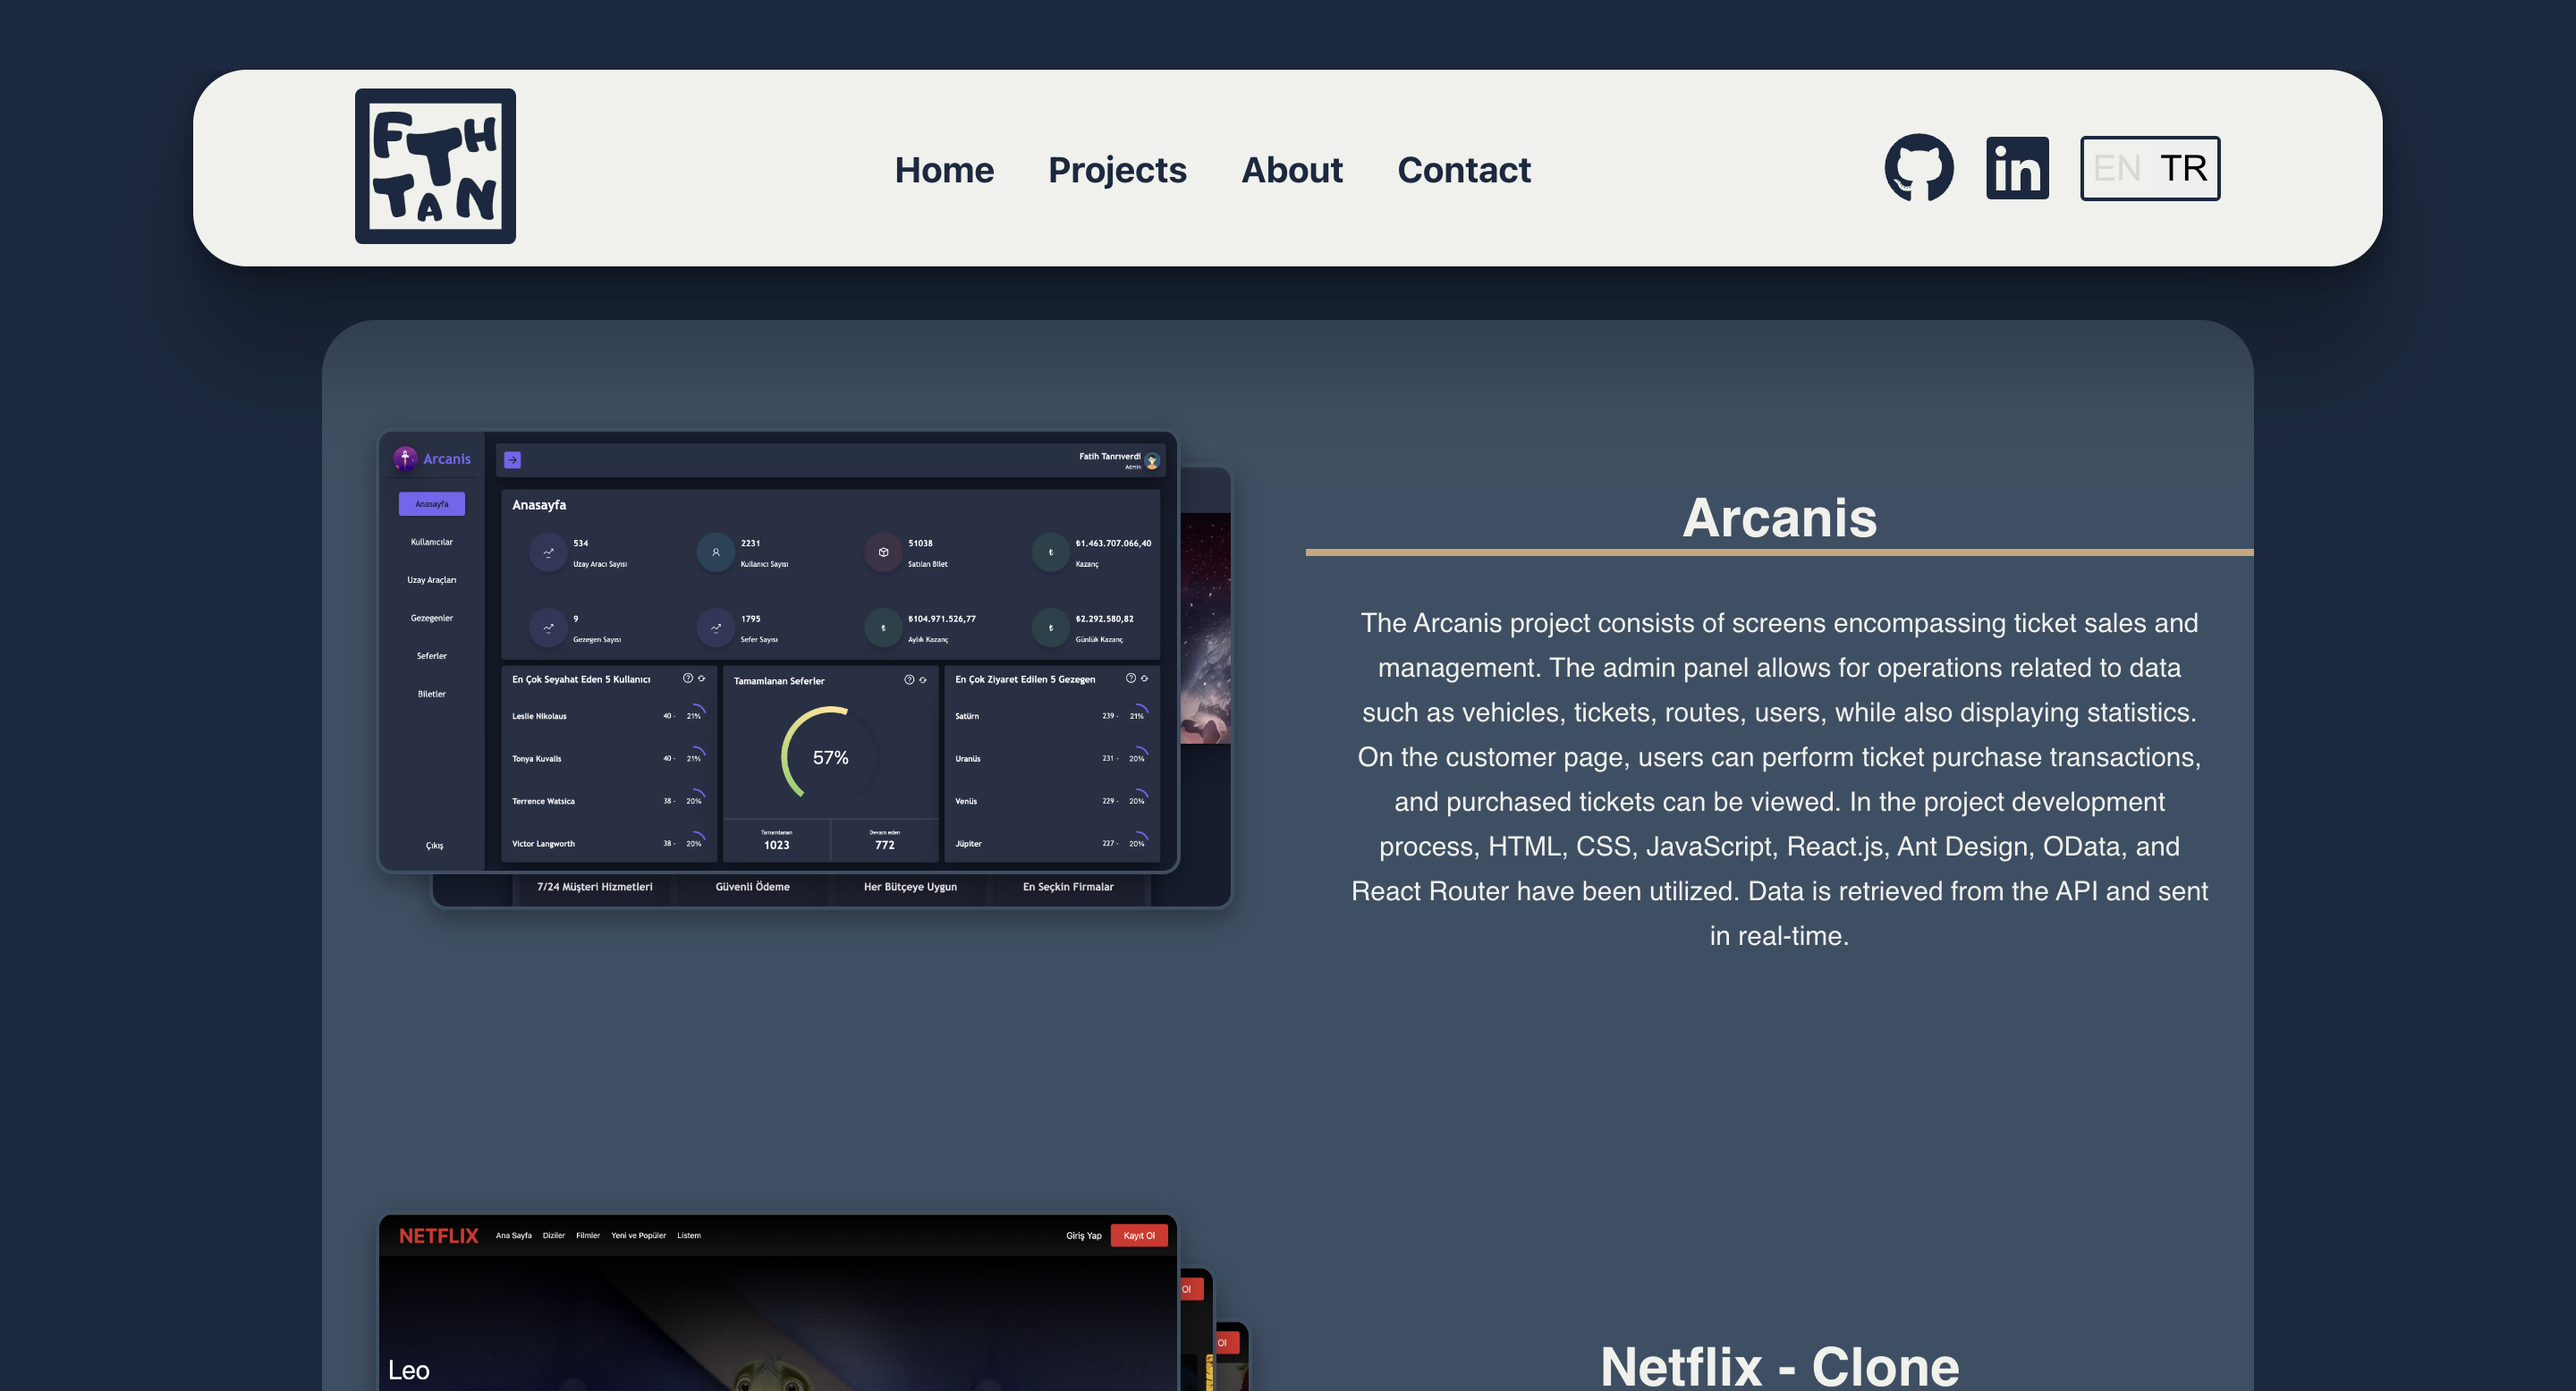
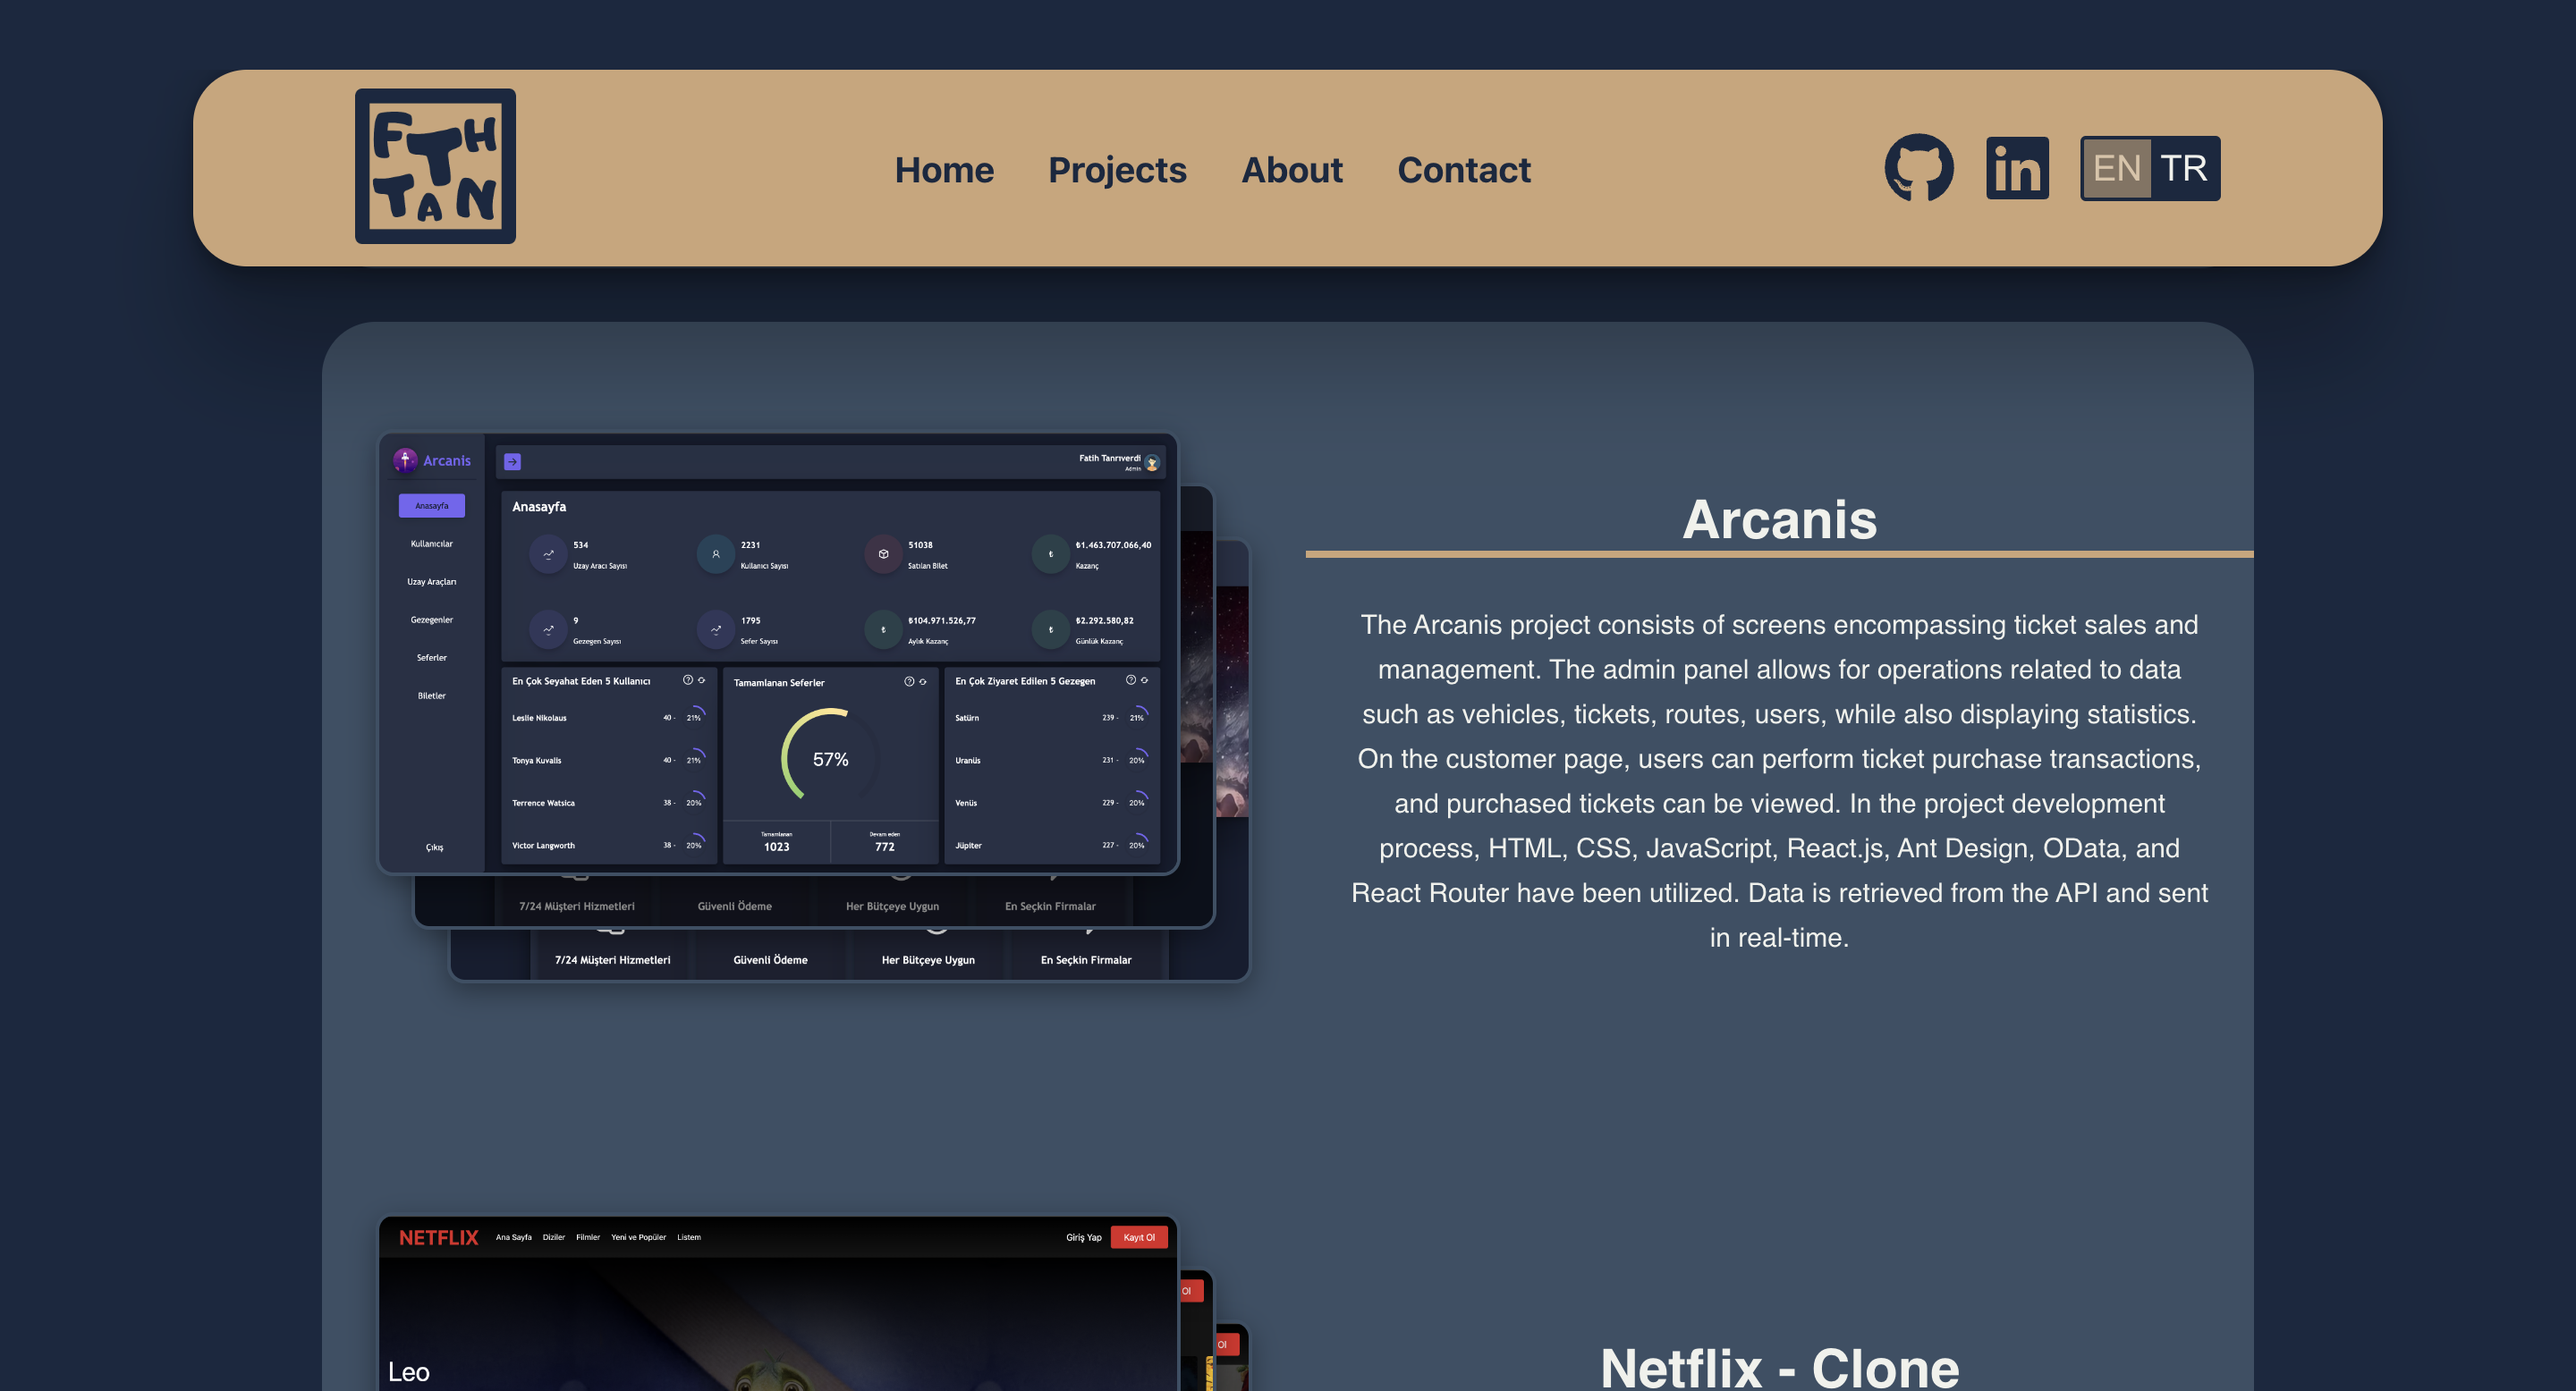
Site'nin CSS'inde güncellemeler yapıldı.

diff --git a/src/components/projects/ProjectsComp.jsx b/src/components/projects/ProjectsComp.jsx
@@ -1,10 +1,23 @@
 import React from 'react'
 import '../../scss/styles.scss'
 import { useLang } from '../../context/LangContext';
+import $ from 'jquery';
 
 const ProjectsComp = () => {
 
     const { lang } = useLang();
+
+    function rotate() {
+        var lastChild = $('.slider div:last-child').clone(); // Use $ for jQuery
+        $('.slider div').removeClass('firstSlide');
+        $('.slider div:last-child').remove();
+        $('.slider').prepend(lastChild);
+        $(lastChild).addClass('firstSlide');
+    }
+
+    window.setInterval(function () {
+        rotate();
+    }, 4000);
 
     return (
         <div className='personalWebSiteProjectsContainer' id='projects'>
@@ -13,6 +26,7 @@ const ProjectsComp = () => {
                     <div className='personalWebSiteProjectsContentLeft'>
                         <img className='arcanisCustomerImage' src='/images/Arcanis_Customer.png' alt='' />
                         <img className='arcanisAdminImage' src='/images/Arcanis_Admin.png' alt='' />
+                        <img className='arcanisLoginImage' src='/images/Arcanis_Login_Page.png' alt='' />
                     </div>
                     <div className='personalWebSiteProjectsContentRight'>
                         <h1>Arcanis</h1>
@@ -29,7 +43,7 @@ const ProjectsComp = () => {
                     <div className='personalWebSiteProjectsContentNetflixLeft'>
                         <h1>Netflix - Clone</h1>
                         <p>
-                        {lang === "en" ?
+                            {lang === "en" ?
                                 "This project is a replica of Netflix created using JavaScript, React, and Firebase. It is a web application that dynamically displays Netflix-like content and allows users to save their favorite content. Functionality for user authentication and data storage has been added using Firebase."
                                 :
                                 "Bu proje, JavaScript, React ve Firebase kullanılarak oluşturulmuş bir Netflix replikasıdır. Netflix benzeri içerikleri dinamik olarak gösteren, kullanıcıların favori içeriklerini kaydetmelerine olanak tanıyan bir web uygulamasıdır. Firebase ile kullanıcı kimlik doğrulama ve veri saklama işlevselliği eklenmiştir."

diff --git a/src/scss/components/body/_bodyComp.scss b/src/scss/components/body/_bodyComp.scss
@@ -21,29 +21,14 @@
     @extend %font-family;
     font-size: 4rem;
     color: #f0f1ec;
-}
 
-.personalBodyAboutButton {
-    @extend %align-center;
-    height: 2rem;
-    width: 11rem;
-    border: none;
-    border-radius: 1rem;
-    font-size: 2rem;
-    margin-top: 2rem;
-    padding: 3rem;
-    background-color: #182840;
-    color: white;
-    text-decoration: none;
-    box-shadow: rgba(17, 17, 26, 0.05) 0px 1px 0px, rgba(17, 17, 26, 0.1) 0px 0px 8px;
-
-    &>i {
-        @extend %align-center;
-        margin-left: 0.5rem;
-    }
-
-    &:hover {
-        background-color: #cca478;
+    &>a {
+        transform: translate(-50%, -50%);
+        text-align: center;
+        text-decoration: none;
+        color: #f0f1ec;
+        margin-left: 5rem;
+        box-shadow: rgba(0, 0, 0, 0.08) 0px 4px 12px;
     }
 }
 
@@ -51,3 +36,52 @@
     padding-left: 10rem;
 }
 
+.personalBodyAboutButton {
+    @extend %align-center;
+    background-color: #182840;
+    border: 0.3rem solid #182840;
+    font-size: 14px;
+    text-transform: uppercase;
+    padding: 12px 20px;
+    width: 10rem;
+    margin-top: 5rem;
+    cursor: pointer;
+    position: relative;
+    transition: color 0.4s linear;
+    border-radius: 3rem;
+
+    &>i {
+        @extend %align-center;
+        margin-left: 0.5rem;
+    }
+
+    &::before {
+        content: "";
+        position: absolute;
+        left: 0;
+        top: 0;
+        width: 100%;
+        height: 100%;
+        border-radius: 3rem;
+        background-color: #cca478;
+        z-index: -1;
+        transition: transform 0.5s;
+        transform-origin: 0 0;
+        transition-timing-function: cubic-bezier(0.5, 1.6, 0.4, 0.7);
+    }
+
+    &:hover {
+        color: #182840;
+    }
+}
+
+.aboutButton {
+
+    &::before {
+        transform: scaleX(0);
+    }
+
+    &:hover::before {
+        transform: scaleX(1);
+    }
+}

diff --git a/src/scss/components/footer/_footer.scss b/src/scss/components/footer/_footer.scss
@@ -6,22 +6,19 @@
 .personalWebSiteFooter {
     @extend %align-center;
     flex-direction: column;
-    width: 95%;
+    width: 85%;
     height: 20rem;
-    margin-top: 10rem;
-    margin-bottom: 3rem;
+    margin: 5rem 3rem;
     border-radius: 3rem;
     background-color: #3e4c59;
     box-shadow: rgba(0, 0, 0, 0.25) 0px 54px 55px, rgba(0, 0, 0, 0.12) 0px -12px 30px, rgba(0, 0, 0, 0.12) 0px 4px 6px, rgba(0, 0, 0, 0.17) 0px 12px 13px, rgba(0, 0, 0, 0.09) 0px -3px 5px;
 }
 
 .personalWebSiteFooterContentBody {
-    display: flex;
-    justify-content: flex-start;
-    align-items: flex-start;
+    @extend %align-start;
     flex-direction: column;
     margin-bottom: 2rem;
-    width: 10%;
+    width: 12%;
 
     &>a {
         @extend %align-center;
@@ -53,7 +50,6 @@
     align-items: center;
     width: 90%;
     border-top: 0.3rem solid #182840;
-    cursor: pointer;
 
     &>p {
         color: #f0f1ec;
@@ -65,12 +61,11 @@
         height: 3rem;
         width: 3rem;
         margin-top: 1rem;
+        pointer-events: none;
     }
 }
 
 .personalWebSiteFooterContentTop {
-    display: flex;
-    justify-content: flex-start;
-    align-items: flex-start;
+    @extend %align-start;
     width: 90%;
 }

diff --git a/src/components/footer/FooterComp.jsx b/src/components/footer/FooterComp.jsx
@@ -1,4 +1,4 @@
-import React from 'react'
+import React, { useEffect, useState } from 'react'
 import '../../scss/styles.scss'
 import { IoIosMail, IoMdRocket } from "react-icons/io";
 import { FaMedium } from "react-icons/fa6";
@@ -7,7 +7,18 @@ import { useLang } from '../../context/LangContext';
 
 const FooterComp = () => {
 
+    const [fullYear, setFullYear] = useState("");
     const { lang } = useLang();
+
+    const getFullYear = () => {
+        const date = new Date();
+        const fullYear = date.getFullYear();
+        setFullYear(fullYear);
+    }
+
+    useEffect(() => {
+        getFullYear();
+    })
 
     return (
         <div className='personalWebSiteFooterContainer' id='contact'>
@@ -25,7 +36,7 @@ const FooterComp = () => {
                     </div>
                 </div>
                 <div className='personalWebSiteFooterContentFooter'>
-                    <p>© Fatih Tanrıverdi 2023</p>
+                    <p>© Fatih Tanrıverdi {fullYear}</p>
                     <img src='/images/Website_Logo_Gold_Preview.png' alt=''/>
                 </div>
             </div>

diff --git a/src/scss/components/header/_headerComp.scss b/src/scss/components/header/_headerComp.scss
@@ -8,7 +8,7 @@
     position: fixed;
     height: 11rem;
     width: 85%;
-    background-color: #f0f1ec;
+    background-color: #cca478;
     border-radius: 3rem;
     margin-top: 4rem;
     z-index: 999;
@@ -53,7 +53,7 @@
         font-weight: bold;
 
         &:hover {
-            border-bottom: 0.4rem solid #cca478;
+            border-bottom: 0.3rem solid #182840;
             transition: all 0.1s ease-in-out;
         }
     }
@@ -79,7 +79,7 @@
         margin-left: 1.5rem;
 
         &:hover {
-            color: #cca478;
+            color: #f0f1ec;
         }
     }
 
@@ -89,9 +89,12 @@
         padding: 0.5rem;
         cursor: pointer;
         border: none;
+        background-color: #182840;
+        color: #f0f1ec;
 
         &.active {
-            opacity: 0.1;
+            background-color: #182840;
+            opacity: 0.4;
             pointer-events: none;
         }
 

diff --git a/src/components/body/BodyComp.jsx b/src/components/body/BodyComp.jsx
@@ -19,7 +19,7 @@ const BodyComp = () => {
                             <br />
                             {lang === 'en' ? "Front End Developer" : 'Front End Developer'}
                         </b>
-                        <a href='#about' className='personalBodyAboutButton'>{lang === "en" ? "More" : "Devamı"}<i><FiMoreHorizontal /></i></a>
+                        <a href='#about' className='aboutButton personalBodyAboutButton'>{lang === "en" ? "More" : "Devamı"}<i><FiMoreHorizontal /></i></a>
                     </div>
                     <div className='personalWebSiteBodyContentRight'>
                         <img src='/images/Fatih_Tan_Emoji.png' alt='' />

diff --git a/src/components/header/HeaderComp.jsx b/src/components/header/HeaderComp.jsx
@@ -15,7 +15,7 @@ const HeaderComp = () => {
                         <img src='/images/Website_Logo_Transparent.png' alt='Logo' />
                     </div>
                     <div className='personalWebSiteContentLinks'>
-                        <a href='#home'>{lang === "en" ? "Home" : "Anasayfa"}</a>
+                        <a className='home' href='#home'>{lang === "en" ? "Home" : "Anasayfa"}</a>
                         <a href='#projects'>{lang === "en" ? "Projects" : "Projeler"}</a>
                         <a href='#about'>{lang === "en" ? "About" : "Hakkımda"}</a>
                         <a href='#contact'>{lang === "en" ? "Contact" : "İletişim"}</a>

diff --git a/src/scss/components/projects/_projects.scss b/src/scss/components/projects/_projects.scss
@@ -20,16 +20,27 @@
     @extend %image-position;
     top: 6rem;
     left: 3rem;
+    z-index: 1;
 }
 
-.arcanisCustomerImage {
+.arcanisLoginImage {
     @extend %image-position;
-    top: 8rem;
-    left: 6rem;
+    top: 9rem;
+    left: 5rem;
 
     &:hover {
         z-index: 1;
         border-color: #cca478;
+    }
+}
+
+.arcanisCustomerImage {
+    @extend %image-position;
+    top: 12rem;
+    left: 7rem;
+
+    &:hover {
+        z-index: 2;
     }
 }
 

diff --git a/public/index.html b/public/index.html
@@ -2,7 +2,7 @@
 <html lang="en">
   <head>
     <meta charset="utf-8" />
-    <link rel="icon" href="./images/Website_Logo_Transparent.png" />
+    <link rel="icon" href="/images/Website_Logo_Transparent.png" />
     <meta name="viewport" content="width=device-width, initial-scale=1" />
     <meta name="theme-color" content="#000000" />
     <meta

diff --git a/src/scss/extends/_extends.scss b/src/scss/extends/_extends.scss
@@ -4,6 +4,12 @@
     align-items: center;
 }
 
+%align-start {
+    display: flex;
+    justify-content: flex-start;
+    align-items: flex-start;
+}
+
 %align-flex-start {
     display: flex;
     justify-content: center;
